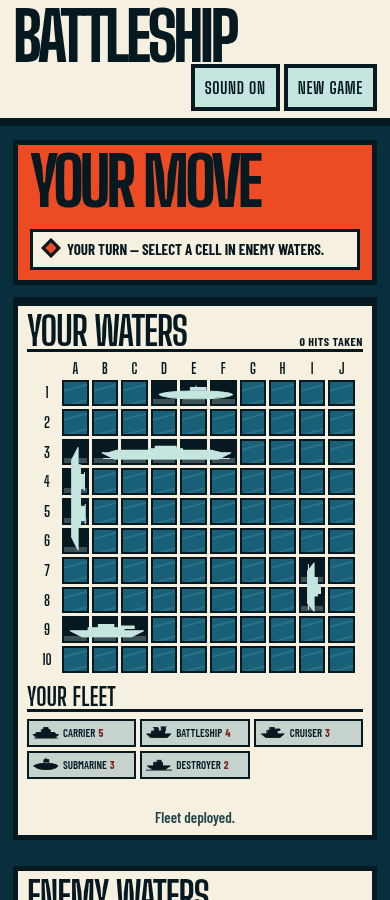
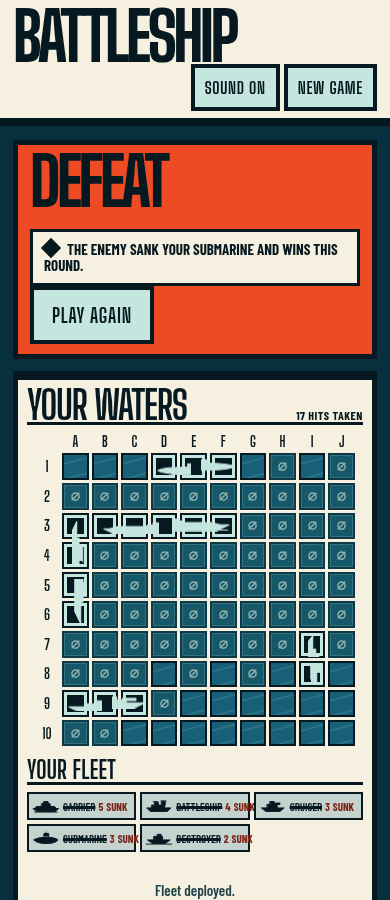
Capture translation-based wreck geometry

diff --git a/src/styles.css b/src/styles.css
@@ -576,7 +576,8 @@ kbd {
 }
 
 .cell-vessel-wreck {
-  height: 40%;
+  height: 66%;
+  clip-path: inset(0 6px 0 0);
 }
 
 .cell-vessel-half .ship-icon {
@@ -606,23 +607,19 @@ kbd {
 
 @keyframes wreck-half-a {
   from {
-    opacity: 1;
-    transform: translate(0, 0) rotate(0deg) scale(1);
+    transform: translate(0, 0);
   }
   to {
-    opacity: 1;
-    transform: rotate(-4deg);
+    transform: translate(-3px, 2px);
   }
 }
 
 @keyframes wreck-half-b {
   from {
-    opacity: 1;
-    transform: translate(0, 0) rotate(0deg) scale(1);
+    transform: translate(0, 0);
   }
   to {
-    opacity: 1;
-    transform: rotate(4deg);
+    transform: translate(3px, -2px);
   }
 }
 
@@ -833,14 +830,12 @@ kbd {
 @media (prefers-reduced-motion: reduce) {
   .cell-vessel-half-a {
     animation: none;
-    opacity: 1;
-    transform: rotate(-4deg);
+    transform: translate(-3px, 2px);
   }
 
   .cell-vessel-half-b {
     animation: none;
-    opacity: 1;
-    transform: rotate(4deg);
+    transform: translate(3px, -2px);
   }
 
   *,
@@ -849,6 +844,12 @@ kbd {
     animation-duration: 1ms !important;
     animation-iteration-count: 1 !important;
     transition-duration: 1ms !important;
+  }
+
+  .cell-vessel-half-a,
+  .cell-vessel-half-b {
+    animation: none !important;
+    animation-duration: 0s !important;
   }
 
   .cell-aiming {

diff --git a/DESIGN.md b/DESIGN.md
@@ -32,10 +32,11 @@ active call to action and combat states.
 - Sunk hulls use the full class silhouette without repeating boxed-saltire
   marks; the legend uses a compact vessel silhouette for that reveal grammar.
 - A newly sunk vessel fractures into two authored flat-profile halves over
-  roughly 620ms: a hard 10px central gap opens, the bow and stern list apart
-  by opposing 4° tilts, and the full-opacity halves remain at full scale as a
-  readable wreck. The wreck profile uses a reduced 40% cross-axis height so
-  the rotated silhouette stays inside its cell run. Reduced motion skips
+  roughly 620ms: a hard 10px central gap opens, the halves separate with
+  opposing 3px horizontal and 2px vertical translations, and the
+  full-opacity halves remain at full scale as a readable wreck. The wreck
+  profile uses a 66% cross-axis height plus a 6px trailing clip so the
+  translated silhouette stays inside its cell run. Reduced motion skips
   directly to that broken resting state.
 - Fired states stay value-separated on petrol water: a quiet flattened-water
   miss, hot orange hit, and dead ink sunk. The legend mirrors the exact
